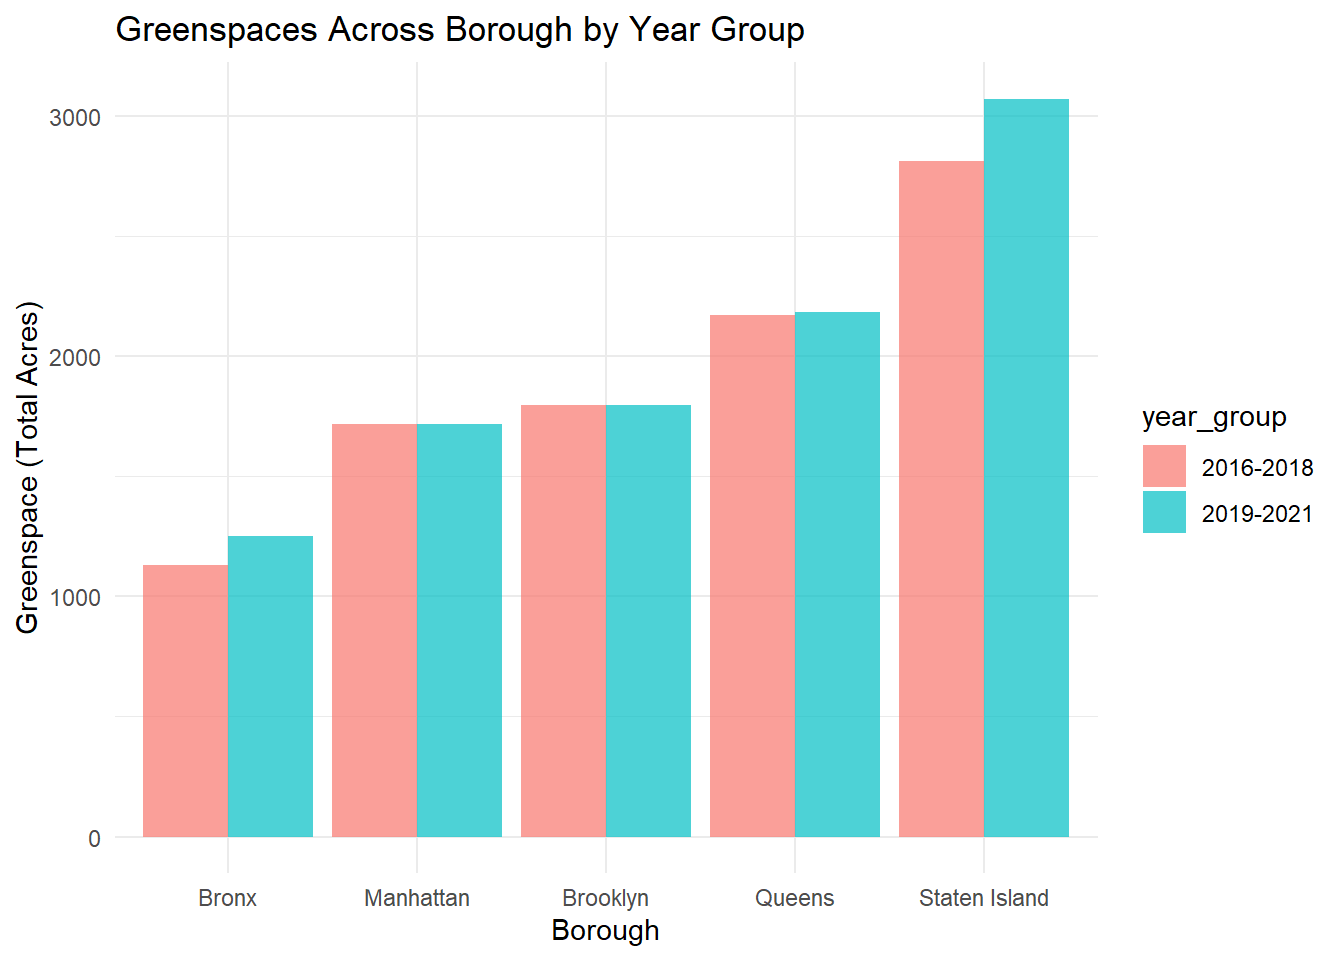
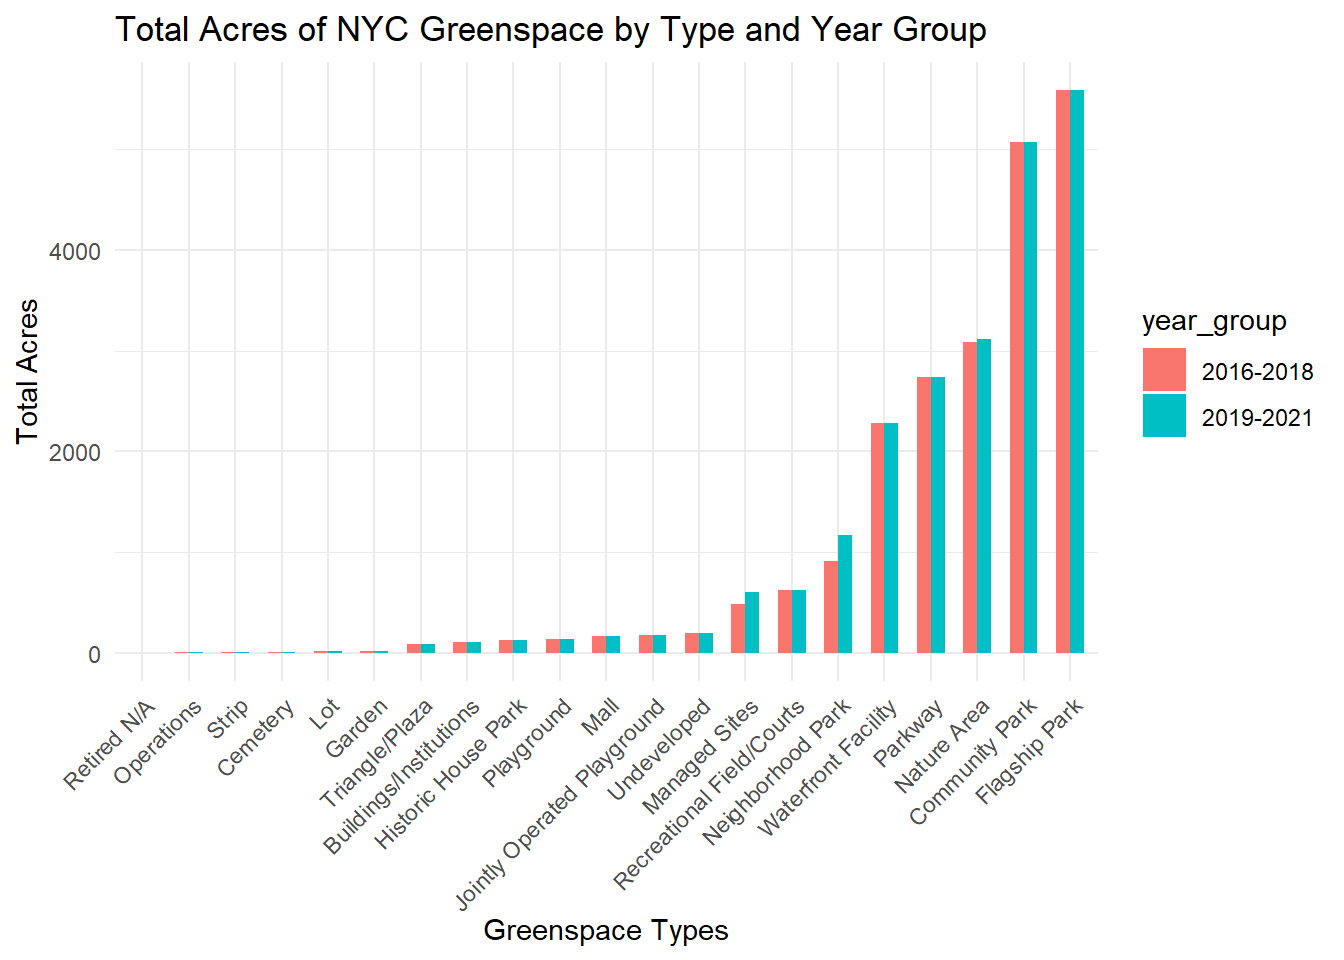
Revise formatting for tables

diff --git a/exploratory_data_analysis.html b/exploratory_data_analysis.html
@@ -674,26 +674,28 @@ tidy_analysis_pm |&gt;
     fill = &quot;Year Group&quot;
   ) </code></pre>
 <p><img src="exploratory_data_analysis_files/figure-html/unnamed-chunk-8-1.png" width="672" /></p>
+<p><strong>Average PM.25 levels across boroughs: 2016-2018 vs
+2019-2021</strong></p>
 <pre class="r"><code># Print PM2.5 Summary
 
 tidy_analysis_pm_diff &lt;- 
   tidy_analysis_pm |&gt;
   mutate(pm2.5_difference = `avg_pm2.5_2016-2018` - `avg_pm2.5_2019-2021`)
 
-knitr::kable(tidy_analysis_pm_diff, col.names = c(&quot;borough&quot;, &quot;avg_pm2.5_2016-2018&quot;, &quot;avg_pm2.5_2019-2021&quot;, &quot;pm2.5_difference&quot;))</code></pre>
+knitr::kable(tidy_analysis_pm_diff, col.names = c(&quot;Borough&quot;, &quot;Average PM2.5 (2016-2018)&quot;, &quot;Average PM2.5 (2019-2021)&quot;, &quot;Difference in PM2.5 Levels&quot;))</code></pre>
 <table>
 <colgroup>
-<col width="19%" />
-<col width="28%" />
-<col width="28%" />
-<col width="23%" />
+<col width="15%" />
+<col width="27%" />
+<col width="27%" />
+<col width="29%" />
 </colgroup>
 <thead>
 <tr class="header">
-<th align="left">borough</th>
-<th align="right">avg_pm2.5_2016-2018</th>
-<th align="right">avg_pm2.5_2019-2021</th>
-<th align="right">pm2.5_difference</th>
+<th align="left">Borough</th>
+<th align="right">Average PM2.5 (2016-2018)</th>
+<th align="right">Average PM2.5 (2019-2021)</th>
+<th align="right">Difference in PM2.5 Levels</th>
 </tr>
 </thead>
 <tbody>
@@ -846,9 +848,65 @@ period.</p>
 </div>
 <div id="greenspace" class="section level2">
 <h2>Greenspace</h2>
+<pre class="r"><code># Load greenspace data
+
+greenspace_clean = read_csv(&quot;./data/Parks_Properties_20241126.csv&quot;, na = c(&quot;NA&quot;, &quot;.&quot;, &quot;&quot;)) |&gt;
+  janitor::clean_names() |&gt; 
+  mutate(
+    borough = case_match(borough, #renamed borough according to data dictionary
+      &quot;R&quot; ~ &quot;Staten Island&quot;,
+      &quot;Q&quot; ~ &quot;Queens&quot;,
+      &quot;X&quot; ~ &quot;Bronx&quot;,
+      &quot;B&quot; ~ &quot;Brooklyn&quot;,
+      &quot;M&quot; ~ &quot;Manhattan&quot;),
+    typecategory = as.factor(typecategory), #converted char variables into factors
+    borough = as.factor(borough)) |&gt;
+  separate(acquisitiondate, into = c(&quot;year&quot;, &quot;month&quot;, &quot;day&quot;), sep = &quot;-&quot;) |&gt;
+  select(year, borough, acres, typecategory) |&gt; 
+  filter(year &lt; 2022 | is.na(year))</code></pre>
 <div id="borough-and-year-comparison" class="section level4">
 <h4>Borough and Year Comparison</h4>
-<p><img src="exploratory_data_analysis_files/figure-html/unnamed-chunk-14-1.png" width="672" /></p>
+<pre class="r"><code># Load 2016-2018 dataset
+
+dataset1_gs = greenspace_clean |&gt;
+  filter(year &lt; 2019 | is.na(year)) |&gt; 
+  group_by(year, borough) |&gt;
+  summarise(avg_acres_per_yr_bor = mean(acres, na.rm = TRUE), .groups = &quot;drop&quot;)
+
+dataset1_gs_calc = dataset1_gs |&gt; 
+  group_by(borough) |&gt; 
+  summarise(acres_sum = sum(avg_acres_per_yr_bor, na.rm = TRUE), .groups = &quot;drop&quot;) |&gt; 
+  mutate(year_group = &quot;2016-2018&quot;)
+
+# Load 2019-2021 dataset
+
+dataset2_gs = greenspace_clean |&gt;
+  filter(year &lt; 2022 | is.na(year)) |&gt;
+  group_by(year, borough) |&gt;
+  summarise(avg_acres_per_yr_bor = mean(acres, na.rm = TRUE), .groups = &quot;drop&quot;)
+
+dataset2_gs_calc = dataset2_gs |&gt; 
+  group_by(borough) |&gt; 
+  summarise(acres_sum = sum(avg_acres_per_yr_bor, na.rm = TRUE), .groups = &quot;drop&quot;) |&gt; 
+  mutate(year_group = &quot;2019-2021&quot;)
+
+# Combine datasets
+
+total_acres = bind_rows(dataset1_gs_calc, dataset2_gs_calc)
+  
+# Total acres dataset
+
+Greenspace_data = total_acres |&gt;
+  pivot_wider(names_from = year_group,
+              values_from = acres_sum)
+
+# Produce plot of greenspace distribution across NYC boroughs
+
+ggplot(total_acres, aes(x = reorder(borough, acres_sum), y = acres_sum, fill = year_group)) + 
+  geom_bar(stat = &quot;identity&quot;, position = &quot;dodge&quot;, alpha = 0.7) + 
+  labs(x = &quot;Borough&quot;, y = &quot;Greenspace (Total Acres)&quot;, title = &quot;Greenspaces Across Borough by Year Group&quot;) +
+  theme_minimal()</code></pre>
+<p><img src="exploratory_data_analysis_files/figure-html/unnamed-chunk-12-1.png" width="672" /></p>
 <p>Analysis of greenspace distribution across NYC boroughs shows
 consistent patterns between 2016-2018 and 2019-2021, with notable
 differences in total acreage between boroughs. Staten Island maintained
@@ -866,13 +924,10 @@ interest.</p>
 </div>
 <div id="greenspace-increase" class="section level4">
 <h4>Greenspace increase</h4>
-<p>Comparing between the two year groups, Staten Island had the largest
-increase (258.720 acres) in greenspaces and Manhattan had the least
-(0.345 acres).</p>
 <table>
 <thead>
 <tr class="header">
-<th align="left">borough</th>
+<th align="left">Borough</th>
 <th align="right">2016-2018</th>
 <th align="right">2019-2021</th>
 <th align="right">Difference</th>
@@ -911,13 +966,84 @@ increase (258.720 acres) in greenspaces and Manhattan had the least
 </tr>
 </tbody>
 </table>
+<p>Examining the changes in greenspace between 2016-2018 and 2019-2021,
+the data reveals variations in greenspace across boroughs and time
+periods. Staten Island exhibited the most significant increase, adding
+258.720 acres of greenspace, followed by the Bronx with an addition of
+119.625 acres. Queens showed a modest increase of 11.494 acres, while
+Brooklyn and Manhattan experienced minimal changes with increases of
+only 0.956 and 0.345 acres respectively. These differences may reflect
+differences in greenspace development priorities across the city’s
+boroughs during this period.</p>
 </div>
 <div id="greenspace-types" class="section level4">
 <h4>Greenspace Types</h4>
-<p><img src="exploratory_data_analysis_files/figure-html/unnamed-chunk-18-1.png" width="672" /></p>
-<p>In terms of total acres, flagship parks make up the largest
-proportion of NYC greenspace. This trend is similar for both year
-groups.</p>
+<pre class="r"><code># Calculate mean acres for each type category across all years
+
+types_nyc = greenspace_clean |&gt;
+  select(-borough) |&gt;
+  group_by(typecategory) |&gt;
+  summarise(acres_tp = mean(acres, na.rm = TRUE), .groups = &quot;drop&quot;)
+
+# Process data for 2016-2018 period
+
+type1A = greenspace_clean |&gt;
+  filter(year &lt; 2019 | is.na(year)) |&gt; 
+  group_by(year, borough, typecategory) |&gt;
+  summarise(avg_acres_per_yr_bor = mean(acres, na.rm = TRUE), .groups = &quot;drop&quot;)
+
+# Calculate total acres by borough and type for 2016-2018
+
+type1B = type1A |&gt; 
+  group_by(borough, typecategory) |&gt; 
+  summarise(acres_sum = sum(avg_acres_per_yr_bor, na.rm = TRUE), .groups = &quot;drop&quot;) |&gt; 
+  mutate(year_group = &quot;year1&quot;) #2016-2018
+
+# Process data for 2019-2021 period
+
+type2A = greenspace_clean |&gt;
+  filter(year &lt; 2022 | is.na(year)) |&gt;
+  group_by(year, borough, typecategory) |&gt;
+  summarise(avg_acres_per_yr_bor = mean(acres, na.rm = TRUE), .groups = &quot;drop&quot;)
+
+# Calculate total acres by borough and type for 2019-2021
+
+type2B = type2A |&gt; 
+  group_by(borough, typecategory) |&gt; 
+  summarise(acres_sum = sum(avg_acres_per_yr_bor, na.rm = TRUE), .groups = &quot;drop&quot;) |&gt; 
+  mutate(year_group = &quot;year2&quot;) #2019-2021
+
+# Combine both time periods and calculate total acres by type
+
+binded = bind_rows(type1B, type2B) |&gt;
+  group_by(typecategory, year_group) |&gt;
+  summarise(acres_total = sum(acres_sum, na.rm = TRUE))
+
+# Create bar plot comparing greenspace types between periods
+
+binded |&gt; 
+   mutate(year_group = case_match(year_group,
+      &quot;year1&quot; ~ &quot;2016-2018&quot;,
+      &quot;year2&quot; ~ &quot;2019-2021&quot;)) |&gt;
+  ggplot(aes(x = reorder(typecategory, acres_total), y = acres_total, fill = year_group)) + 
+  geom_bar(stat = &quot;identity&quot;, position = &quot;dodge&quot;, width = 0.6) +
+  labs(x = &quot;Greenspace Types&quot;, y = &quot;Total Acres&quot;, title = &quot;Total Acres of NYC Greenspace by Type and Year Group&quot;) +
+    theme_minimal() +
+  theme(axis.text.x = element_text(angle = 45, vjust = 1, hjust = 1))</code></pre>
+<p><img src="exploratory_data_analysis_files/figure-html/unnamed-chunk-14-1.png" width="672" /></p>
+<p>Analysis of greenspace types across NYC reveals flagship parks as the
+dominant category, representing the largest total acreage in both
+2016-2018 and 2019-2021 periods. Community parks and nature areas
+represent the second and third largest greenspace types respectively in
+both time periods. The distribution of greenspace types remained largely
+consistent between the two time periods, with minimal changes in most
+categories.</p>
+<p>Smaller greenspace types such as gardens, plazas, and historic house
+parks account for relatively minimal acreage in comparison to the larger
+park categories. Most categories showed slight increases or remained
+stable across the two time periods, which suggests efforts towards the
+preservation and/or expansion of various greenspace types throughout the
+city.</p>
 <table>
 <thead>
 <tr class="header">
@@ -930,51 +1056,58 @@ groups.</p>
 <tbody>
 <tr class="odd">
 <td align="left">Neighborhood Park</td>
-<td align="right">910.00857</td>
-<td align="right">1169.62510</td>
-<td align="right">259.617</td>
+<td align="right">910.009</td>
+<td align="right">1169.625</td>
+<td align="right">259.616</td>
 </tr>
 <tr class="even">
 <td align="left">Managed Sites</td>
-<td align="right">483.30350</td>
-<td align="right">602.39850</td>
-<td align="right">119.095</td>
+<td align="right">483.304</td>
+<td align="right">602.398</td>
+<td align="right">119.094</td>
 </tr>
 <tr class="odd">
 <td align="left">Nature Area</td>
-<td align="right">3084.62632</td>
-<td align="right">3117.48632</td>
+<td align="right">3084.626</td>
+<td align="right">3117.486</td>
 <td align="right">32.860</td>
 </tr>
 <tr class="even">
 <td align="left">Undeveloped</td>
-<td align="right">190.17075</td>
-<td align="right">191.35675</td>
+<td align="right">190.171</td>
+<td align="right">191.357</td>
 <td align="right">1.186</td>
 </tr>
 <tr class="odd">
 <td align="left">Waterfront Facility</td>
-<td align="right">2277.16100</td>
-<td align="right">2277.69100</td>
+<td align="right">2277.161</td>
+<td align="right">2277.691</td>
 <td align="right">0.530</td>
 </tr>
 <tr class="even">
 <td align="left">Garden</td>
-<td align="right">17.20095</td>
-<td align="right">17.59995</td>
+<td align="right">17.201</td>
+<td align="right">17.600</td>
 <td align="right">0.399</td>
 </tr>
 <tr class="odd">
 <td align="left">Playground</td>
-<td align="right">137.85455</td>
-<td align="right">138.15355</td>
+<td align="right">137.855</td>
+<td align="right">138.154</td>
 <td align="right">0.299</td>
 </tr>
 </tbody>
 </table>
-<p>7 of the 21 greenspace types had an increase in total acres between
-the two year groups. No change was seen in the remaining greenspace
-types.</p>
+<p>Between 2016-2018 and 2019-2021, neighborhood parks showed the
+largest expansion with an increase of 259.617 acres, followed by managed
+sites which grew by 119.095 acres. Nature areas experienced a notable
+increase of 32.860 acres, while undeveloped spaces, waterfront
+facilities, gardens, and playgrounds showed minimal changes, with
+increases ranging from 0.299 to 1.186 acres. The remaining 14 greenspace
+types maintained their original acreage with no changes observed during
+this period. This pattern indicates that recent greenspace development
+has primarily focused on expanding neighborhood parks and managed sites
+while preserving existing spaces in other categories.</p>
 <p><strong>Top 3 Greenspace Types (Total Acres) Across
 Boroughs</strong></p>
 <table>
@@ -1025,12 +1158,20 @@ Boroughs</strong></p>
 </tr>
 </tbody>
 </table>
-<p>The total acres of each greenspace type for each borough is the same
-for both year group.</p>
-<p>Top categories of greenspace types across the boroughs include
-Flagship Park, Community Park, Nature Area, Parkway, Waterfront
-Facility, and Neighborhood Park. We also see that the top 3 greenspace
-types are different for each borough.</p>
+<p>The table shows the top three greenspace types by total acreage
+across New York City’s five boroughs, revealing distinct patterns in how
+each borough maintains its green spaces. Staten Island has the largest
+single greenspace with a Nature Area of 1690.97 acres, showing a focus
+on preserving natural environments. Manhattan maintains relatively
+smaller spaces, with its largest being a Community Park at 1098.39
+acres. The outer boroughs feature major destination parks called
+Flagship Parks - which NYC Parks targets for long-term planning and
+community input.</p>
+<p>The Bronx and Brooklyn both incorporate significant Parkway acreage
+as part of New York State’s historic system of landscaped roads. Queens
+stands out with the largest Flagship Park (1631.46 acres), while
+Brooklyn shows diversity in its green spaces with both large Community
+Parks and Parkways.</p>
 </div>
 </div>
 <div id="temperature" class="section level2">
@@ -1089,7 +1230,7 @@ ggplot(all_temp_month, aes(x = months, y = avg_month, color = borough)) +
     color = &quot;Borough&quot;
   ) +
   theme_minimal()</code></pre>
-<p><img src="exploratory_data_analysis_files/figure-html/unnamed-chunk-23-1.png" width="672" /></p>
+<p><img src="exploratory_data_analysis_files/figure-html/unnamed-chunk-19-1.png" width="672" /></p>
 </div>
 <div id="max-min-mean-temperature-trend-by-year-and-borough"
 class="section level4">
@@ -1131,7 +1272,7 @@ ggplot(long_data, aes(x = years, y = Temperature, color = Temperature_Type, grou
                &quot;mean_temp&quot; = &quot;Mean Temperature&quot;)) +
   theme_minimal() +                    
   facet_wrap(~ borough)  </code></pre>
-<p><img src="exploratory_data_analysis_files/figure-html/unnamed-chunk-24-1.png" width="672" /></p>
+<p><img src="exploratory_data_analysis_files/figure-html/unnamed-chunk-20-1.png" width="672" /></p>
 </div>
 <div id="average-temperature-change-by-borough" class="section level4">
 <h4>Average temperature change by borough</h4>
@@ -1223,7 +1364,7 @@ Bronx showed the biggest increase.</p>
        x = &quot;Date Group&quot;,
        y = &quot;Average Temperature&quot;) +
   theme_minimal()</code></pre>
-<p><img src="exploratory_data_analysis_files/figure-html/unnamed-chunk-26-1.png" width="672" /></p>
+<p><img src="exploratory_data_analysis_files/figure-html/unnamed-chunk-22-1.png" width="672" /></p>
 </div>
 </div>
 </div>
